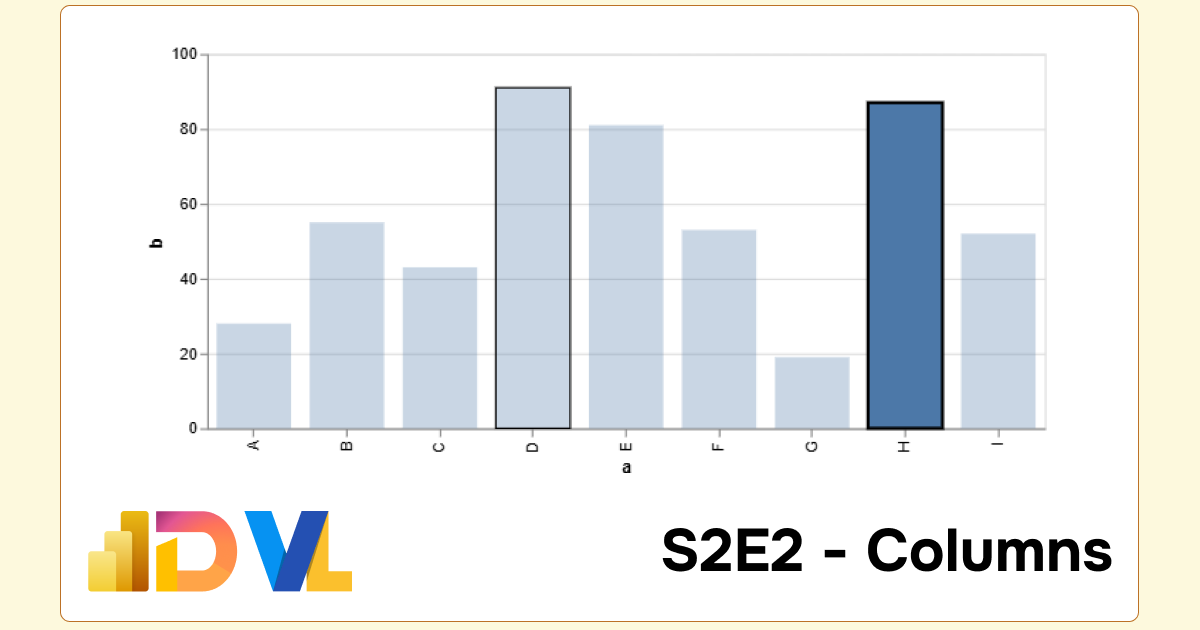
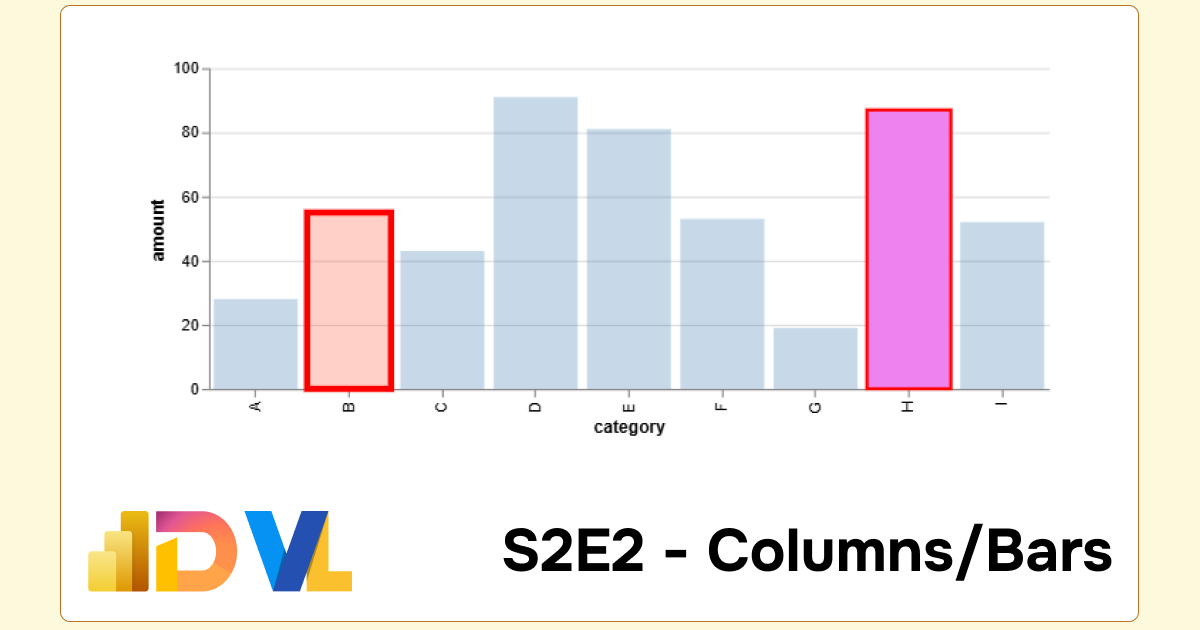
final touches to s2e2

Changed region(s): [[0.1233, 0.0603, 0.8942, 0.7238], [0.4008, 0.8143, 0.925, 0.9349]]

diff --git a/_posts/2025-02-16-s2e2-columns.md b/_posts/2025-02-16-s2e2-columns.md
@@ -1,6 +1,6 @@
 ---
 layout: post
-title: S2E2 - Interactive Columns (Highlight & Select)
+title: S2E2 - Interactive Columns/Bars (Highlight & Select)
 date: 2025-02-16 15:06
 category: [Season-2, ColumnChart, DataViz, Deneb, Vega-Lite, Walkthrough]
 author: [A1, A2]
@@ -614,6 +614,8 @@ We've made great achievements here, but why have cotton when you can have silk? 
 
 Correct... the `fill` attribute. No we are beginning to see a pattern, we can copy and paste previous segments and tweek them slightly:
 
+<p float="left">
+
 <html>
 <div id="vis_step5"></div>
   <script type="text/javascript">
@@ -702,7 +704,100 @@ Correct... the `fill` attribute. No we are beginning to see a pattern, we can co
 };
     vegaEmbed('#vis_step5', spec);
   </script>
+</html>&emsp;&emsp;
+
+<html>
+<div id="vis_step5b"></div>
+  <script type="text/javascript">
+    var spec = {
+  "$schema": "https://vega.github.io/schema/vega-lite/v5.json",
+  "description": "A bar chart with highlighting on hover and selecting on click. (Inspired by Tableau's interaction style.)",
+  "height": 205,
+  "data": {
+    "values": [
+      {"category": "A", "amount": 28},
+      {"category": "B", "amount": 55},           
+      {"category": "C", "amount": 43}, 
+      {"category": "D", "amount": 91},           
+      {"category": "E", "amount": 81}, 
+      {"category": "F", "amount": 53},           
+      {"category": "G", "amount": 19}, 
+      {"category": "H", "amount": 87},           
+      {"category": "I", "amount": 52}
+    ]
+  },
+  "title": "Step 5b: Handle Click/Select Behaviours",
+  /** parameter block **/
+  "params": [                               
+    {
+      "name": "highlight_pointer",  // parameter name
+      "select": {                   // parameter attribute
+        "type": "point",            // select type 
+        "on": "pointerover"         // select behaviour is true on pointerover
+      }
+    },
+    {
+      "name": "select_pointer",     // parameter name
+      "select": "point"             // parameter attribute
+    }
+  ],
+  /** mark block **/
+  "mark": {
+    "type": "bar",
+    "fill": "#4C78A8",
+    "stroke": "red",                // stroke colour
+    "cursor": "pointer"             // point curser
+  },
+  /** encoding block **/
+  "encoding": {
+    "y": {"field": "category", "type": "ordinal"},      
+    "x": {"field": "amount", "type": "quantitative"},
+    "fill": {                   // fill attribute
+      "condition": [                    // condition array in square brackets
+        {                               // condition 1
+          "param": "highlight_pointer", // if highlight_pointer param is true
+          "value": "tomato",            // then fill with tomato colours (tasty)
+          "empty": false
+        },
+        {                               // condition 2
+          "param": "select_pointer",    // when select_pointer param is true
+          "value": "violet",            // then violet
+          "empty": false
+        }
+      ],
+      "value": "steelblue"              // otherwise when conditions are not met, steelblue colour
+    },
+    /** fill opacity **/
+    "fillOpacity": {        
+      "condition": {    // condition
+        "param": "select_pointer", // when the 'select_pointer' parameter is 'true' (data point is selected)
+        "value": 1                  // then fill opacity = 1
+        },      
+      "value": 0.3                  // when then selected, then 30% opacity
+    },
+    /** stroke width **/
+    "strokeWidth": {     // strokeWidth attribute
+      "condition": [
+        {
+          "param": "select_pointer",    // when data is selected (when param 'select_pointer' is true)
+          "value": 2,                   // then strokeWidth is 2
+          "empty": false
+        },
+        {
+          "param": "highlight_pointer", // when highlight_parameter is 'true'
+          "value": 4,                   // then strokeWidth is 4
+          "empty": false    
+        }
+      ],
+      "value": 0   // otherwise, when not highlighted and not selected, strokeWidth is zero (invisible)
+    }
+  }
+};
+    vegaEmbed('#vis_step5b', spec);
+  </script>
 </html>
+
+</p>
 
 ```jsonc
 "fill": {                   // fill attribute
